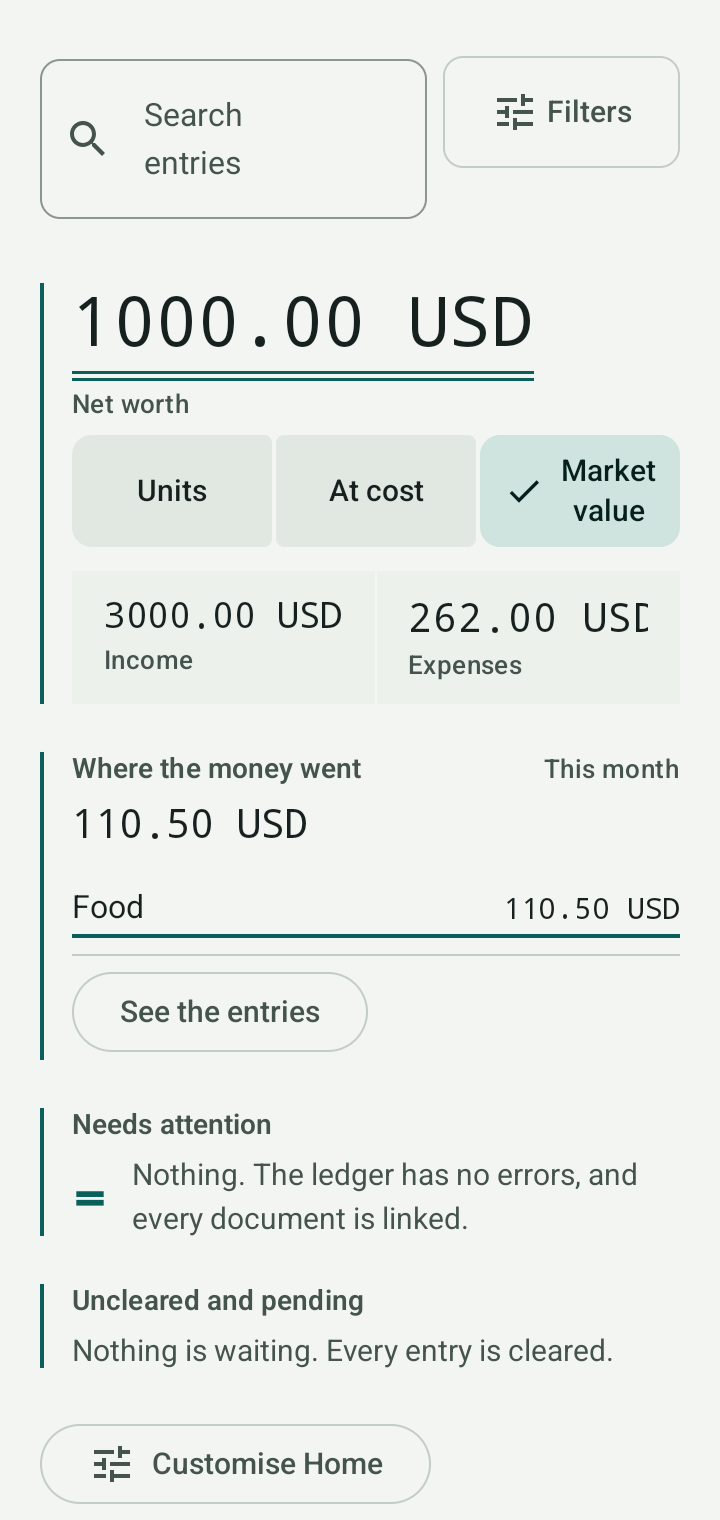
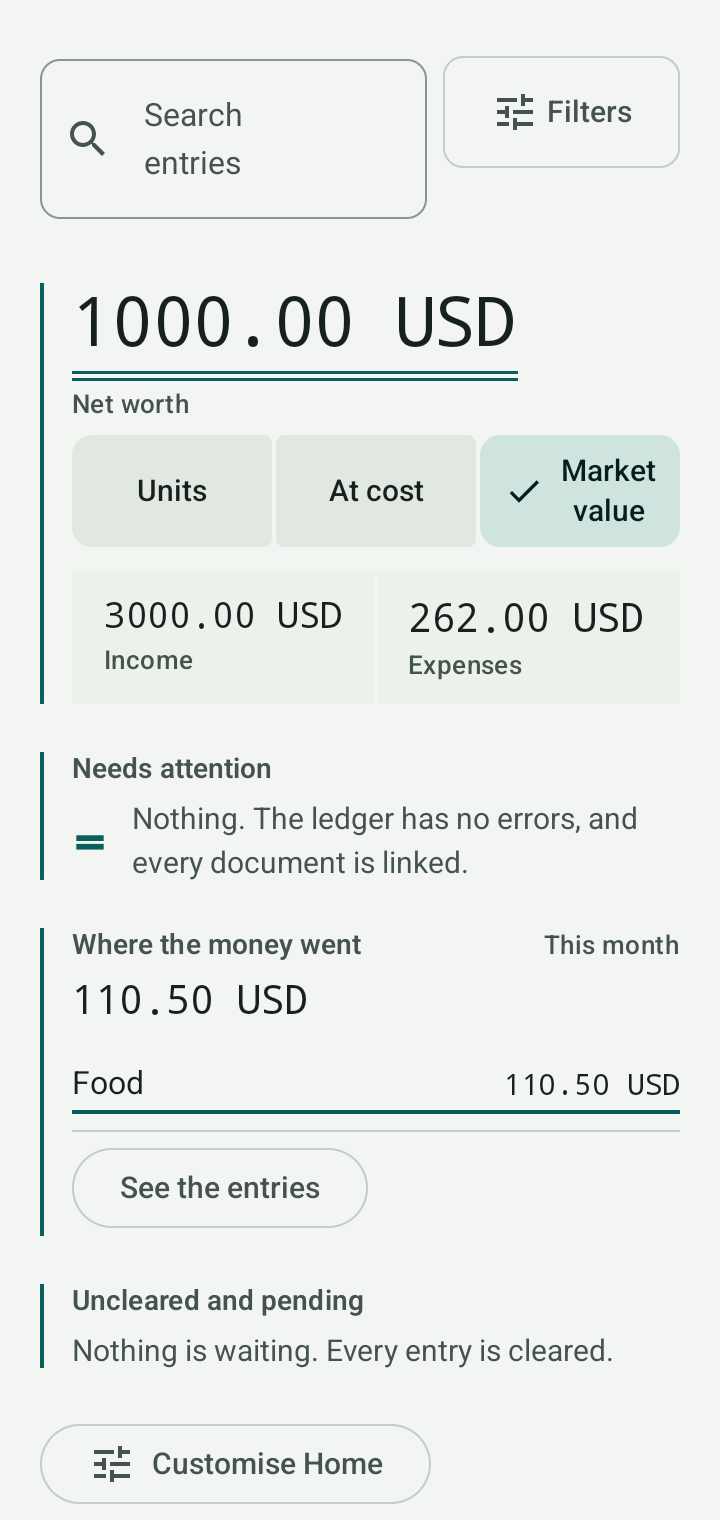
Tests: the Home screenshot is drawn on a fixed day, and its pictures on the weekly job's emulator (#311)

diff --git a/app/src/androidTest/kotlin/io/github/pintofi/beanbook/app/ui/ScreenshotTest.kt b/app/src/androidTest/kotlin/io/github/pintofi/beanbook/app/ui/ScreenshotTest.kt
@@ -110,7 +110,9 @@ class ScreenshotTest {
     )
 
     @Test fun home() = shoot("home") {
-        HomeScreen(ledger = ledger, hideAmounts = false)
+        // The day is fixed: "this month" follows it, and the fixture ledger is October 2026, so on any
+        // other day Home would show no spending and the picture would stop matching.
+        HomeScreen(ledger = ledger, hideAmounts = false, today = LocalDate.of(2026, 10, 25))
     }
 
     @Test fun journal() = shoot("journal") { JournalScreen(snapshot = ledger) }
